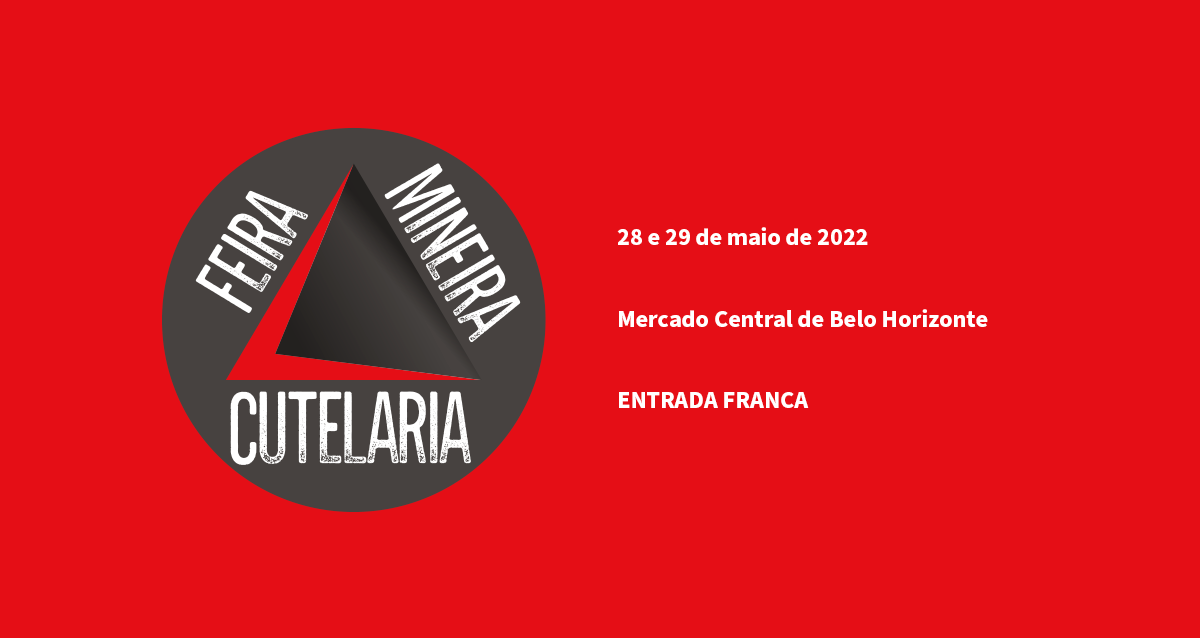
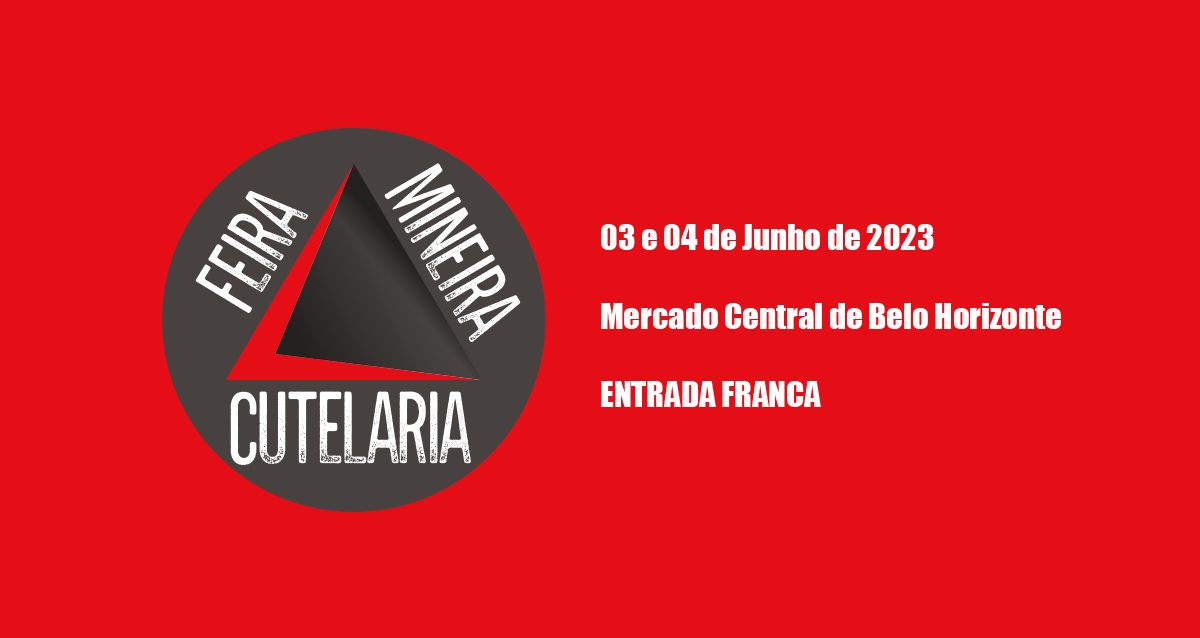
2023

Changed region(s): [[0.4933, 0.4765, 0.8942, 0.5361], [0.4933, 0.3276, 0.8017, 0.4169], [0.4933, 0.5956, 0.7092, 0.6552]]

diff --git a/index.html b/index.html
@@ -10,27 +10,27 @@
         <!-- Schema.org for Google -->
         <meta itemprop="name" content="FEIRA MINEIRA DE CUTELARIA">
         <meta itemprop="description" content="BH tem o prazer de realizar a primeira Feira Mineira de Cutelaria, Serão dois dias de programação e mais de 80 estandes trazendo os maiores nomes da cutelaria no país.">
-        <meta itemprop="image" content="https://feiramineiracutelaria.malab.com.br/img/banner.png">
+        <meta itemprop="image" content="/img/banner.png">
 
         <!-- Primary Meta Tags -->
         <title>FEIRA MINEIRA DE CUTELARIA</title>
         <meta name="title" content="FEIRA MINEIRA DE CUTELARIA">
         <meta name="description" content="BH tem o prazer de realizar a primeira Feira Mineira de Cutelaria, Serão dois dias de programação e mais de 80 estandes trazendo os maiores nomes da cutelaria no país.">
-        <meta name="image" content="https://feiramineiracutelaria.malab.com.br/img/banner.png">
+        <meta name="image" content="/img/banner.png">
 
         <!-- Open Graph / Facebook -->
         <meta property="og:type" content="website">
-        <meta property="og:url" content="https://feiramineiracutelaria.malab.com.br/">
+        <meta property="og:url" content="https://feiramineiracutelaria.com.br/">
         <meta property="og:title" content="FEIRA MINEIRA DE CUTELARIA">
         <meta property="og:description" content="BH tem o prazer de realizar a primeira Feira Mineira de Cutelaria, Serão dois dias de programação e mais de 80 estandes trazendo os maiores nomes da cutelaria no país.">
-        <meta property="og:image" content="https://feiramineiracutelaria.malab.com.br/img/banner.png">
+        <meta property="og:image" content="/img/banner.png">
 
         <!-- Twitter -->
         <meta property="twitter:card" content="summary_large_image">
-        <meta property="twitter:url" content="https://feiramineiracutelaria.malab.com.br/">
+        <meta property="twitter:url" content="https://feiramineiracutelaria.com.br/">
         <meta property="twitter:title" content="FEIRA MINEIRA DE CUTELARIA">
         <meta property="twitter:description" content="BH tem o prazer de realizar a primeira Feira Mineira de Cutelaria, Serão dois dias de programação e mais de 80 estandes trazendo os maiores nomes da cutelaria no país.">
-        <meta property="twitter:image" content="https://feiramineiracutelaria.malab.com.br/img/banner.png">
+        <meta property="twitter:image" content="/img/banner.png">
 
         <link rel="stylesheet preload" as="style" href="css/preload.min.css" />
         <link rel="stylesheet preload" as="style" href="css/libs.min.css" />
@@ -102,12 +102,12 @@
                     class="container d-flex flex-column justify-content-center align-items-center align-items-md-start align-items-lg-center align-items-xl-start"
                 >
                     <div class="hero_content col-xl-7 col-xxl-6" style="background-color: #00000088;">
-                        <h1 class="hero_content-header">FEIRA MINEIRA DE CUTELARIA 2022</h1>
+                        <h1 class="hero_content-header">FEIRA MINEIRA DE CUTELARIA 2023</h1>
                         <p class="hero_content-text text">
-                            <i class="icon-calendar"></i> 28/05 de 12h às 20h e 29/05 de 10h às 16h  
+                            <i class="icon-calendar"></i> 03/06 e 04/06 de 10h às 18h  
                             <span class="linebreak"><i class="icon-location"></i> Mercado Novo de Belo Horizonte</span>
                             <span class="linebreak highlight"><i class="icon-ticket"></i> ENTRADA FRANCA</span>
-                            <span class="linebreak"><br/>realização Oficina das Facas e Malab Produções</span>
+                            <span class="linebreak"><br/>realização Oficina das Facas</span>
                         </p>
 
                     </div>
@@ -135,11 +135,15 @@
                     </div>
                     <div class="about_info col-xl-6">
                         <p class="about_info-text text" data-aos="fade-left">
-                            Sendo um dos ofícios mais antigos da nossa história, a cutelaria é o trabalho de fabricar instrumentos de corte: facas, espadas, canivetes, dentre outros.
+                            Sendo um dos ofícios mais antigos da nossa história, a cutelaria é o 
+                            trabalho de fabricar instrumentos de corte: facas, espadas, canivetes, dentre outros.
 <br /><br />
-Belo Horizonte tem o prazer de realizar a primeira Feira Mineira de Cutelaria, celebrando esta arte que nos torna, enquanto brasileiros, mundialmente reconhecidos. Serão dois dias de programação e mais de 80 estandes trazendo os maiores nomes da cutelaria no país.
+Belo Horizonte tem o prazer de realizar a segunda edição da Feira Mineira de Cutelaria, 
+celebrando esta arte que nos torna, enquanto brasileiros, mundialmente reconhecidos. 
+Serão dois dias de programação e mais de 80 estandes trazendo os maiores nomes da cutelaria no país.
 <br /><br />
-Tanto para profissionais quanto para o público geral, será uma inédita oportunidade de exposição e comercialização de peças, equipamentos e insumos, além de workshops e outras atividades. Participe!
+Tanto para profissionais quanto para o público geral, será uma inédita oportunidade de exposição e 
+comercialização de peças, equipamentos e insumos, além de workshops e outras atividades. Participe!
                         </p>
                         <div class="wrapper d-sm-flex">
                             <div class="about_info-fact">
@@ -283,7 +287,7 @@ Tanto para profissionais quanto para o público geral, será uma inédita oportu
                                 </div>
                                 <div class="main d-md-flex flex-column justify-content-between">
                                     <h4 class="title">86 Expositores</h4>
-                                    <span class="date highlight">28 e 29 maio de 2022</span>
+                                    <span class="date highlight">03 e 04 de junho de 2023 de 10h às 18h</span>
                                 </div>
                             </a>
                         </li>
@@ -302,7 +306,7 @@ Tanto para profissionais quanto para o público geral, será uma inédita oportu
                                 </div>
                                 <div class="main d-md-flex flex-column justify-content-between">
                                     <h4 class="title">Forjamento</h4>
-                                    <span class="date highlight">28 e 29 maio de 2022</span>
+                                    <span class="date highlight">03 e 04 de junho de 2023 às 11h e 15h</span>
                                 </div>
                             </a>
                         </li>
@@ -315,13 +319,13 @@ Tanto para profissionais quanto para o público geral, será uma inédita oportu
                                             class="lazy thumbnail"
                                             data-src="img/corte.webp"
                                             src="img/corte.webp"
-                                            alt="Desafio Sobre Corte"
+                                            alt="Workshop Afiação "
                                         />
                                     </picture>
                                 </div>
                                 <div class="main d-md-flex flex-column justify-content-between">
-                                    <h4 class="title">Desafio Sobre Corte</h4>
-                                    <span class="date highlight">28 e 29 maio de 2022</span>
+                                    <h4 class="title">Workshop Afiação</h4>
+                                    <span class="date highlight">03 e 04 de junho de 2023 às 10h30, 12h, 14h30 e 16h30</span>
                                 </div>
                             </a>
                         </li>
@@ -339,7 +343,7 @@ Tanto para profissionais quanto para o público geral, será uma inédita oportu
                     </a>
                 </div>
                 <div class="wrapper d-flex flex-column flex-md-row flex-grow-1 justify-content-lg-between">
-                    <div class="footer_contacts footer_block col-xl-4">
+                    <div class="footer_contacts footer_block col-xl-8">
                         <span class="footer_contacts-tel d-flex align-items-center">
                             <span class="icon">
                                 <i class="icon-phone"></i>
@@ -351,18 +355,18 @@ Tanto para profissionais quanto para o público geral, será uma inédita oportu
                             <span class="linebreak">Centro - Mercado Novo - Belo Horizonte - MG</span>
                             <span class="linebreak">CEP 30180-114 - Brasil</span>
                         </p>
-                        <!--<a class="footer_contacts-mail" href="mailto:malab@malab.com.br">malab@malab.com.br</a>-->
                         <ul class="footer_contacts-socials d-flex align-items-center">
                             <li class="list-item">
-                                <a class="link" href="#" target="_blank" rel="noopener norefferer">
+                                <a class="link" href="https://www.instagram.com/feiradecutelariamg/" target="_blank" rel="noopener norefferer">
                                     <i class="icon-instagram"></i>
                                 </a>
                             </li>
+                            <!--
                             <li class="list-item">
                                 <a class="link" href="#" target="_blank" rel="noopener norefferer">
                                     <i class="icon-facebook"></i>
                                 </a>
-                            </li>
+                            </li>-->
                      <li class="list-item">
                                 <a class="link" href="https://api.whatsapp.com/send?phone=5531987498787&text=Gostaria%20de%20mais%20informa%C3%A7%C3%B5es%20sobre%20a%20Feira%20Mineira%20de%20Cutelaria." target="_blank" rel="noopener norefferer">
                                     <i class="icon-whatsapp"></i>
@@ -372,13 +376,13 @@ Tanto para profissionais quanto para o público geral, será uma inédita oportu
                         </ul>
                     </div>
                     <div class="footer_newsletter footer_block">
-                        <h3 class="footer_newsletter-header">Assine nossa newsletter</h3>
+                        <!--<h3 class="footer_newsletter-header">Assine nossa newsletter</h3>
                         <p class="footer_newsletter-text text">
-                             para receber novidades da Malab,  não fazemos spam.
+                             para receber novidades da Feira,  não fazemos spam.
                         </p>
                         <form
                             class="footer_newsletter-form d-flex flex-wrap flex-sm-nowrap"
-                            action="https://malab.us6.list-manage.com/subscribe/post?u=968d2bf3f12a872034929077c&amp;id=6ce496daf9"
+                            action=""
                             method="post"
                             data-type="newsletter"
                         >
@@ -386,7 +390,8 @@ Tanto para profissionais quanto para o público geral, será uma inédita oportu
                             <div style="position: absolute; left: -5000px;" aria-hidden="true"><input type="text" name="b_968d2bf3f12a872034929077c_6ce496daf9" tabindex="-1" value=""></div>
                             <button class="btn theme-element" type="submit">Assinar</button>
                         </form>
-        
+                    -->
+        &nbsp;
                     </div>
                 </div>
                 <div class="offset col-lg-3 d-none d-lg-flex"></div>
